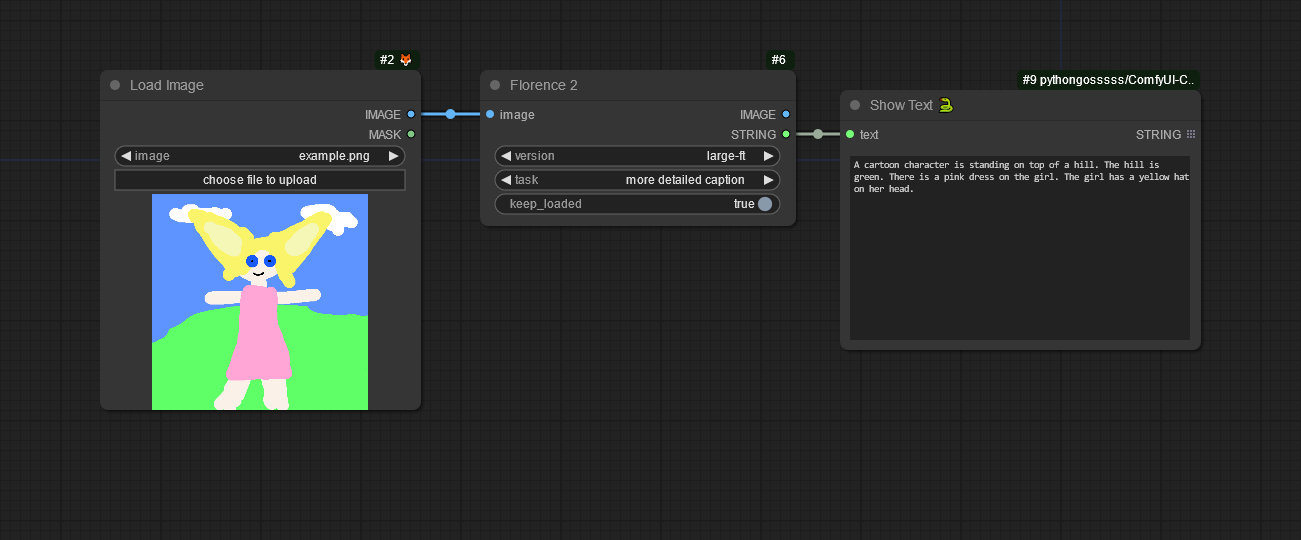
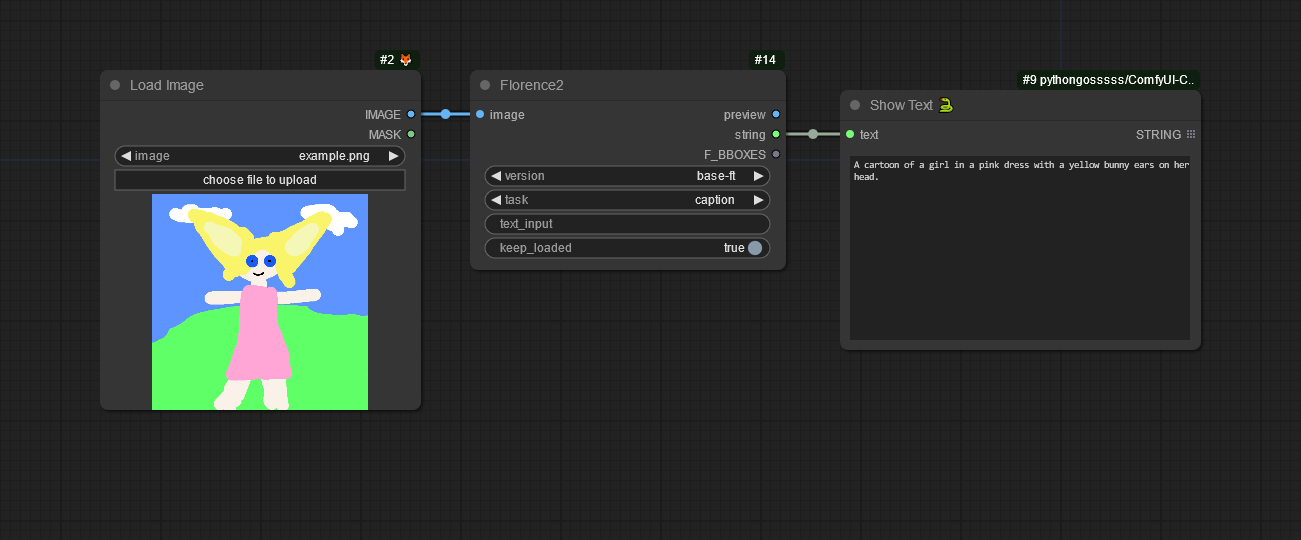
added functionality for more task modes

diff --git a/Florence.py b/Florence.py
@@ -1,13 +1,25 @@
 import os
+import io
+import copy
+import gc
 from unittest.mock import patch
+import random
+
+from PIL import Image, ImageDraw, ImageFont 
+import matplotlib.pyplot as plt
+import matplotlib.patches as patches
+
 import numpy as np
-from PIL import Image
 import torch
 from transformers import AutoProcessor, AutoModelForCausalLM
 from transformers.dynamic_module_utils import get_imports
 
+
+colormap = ['blue','orange','green','purple','brown','pink','gray','olive','cyan','red',
+            'lime','indigo','violet','aqua','magenta','coral','gold','tan','skyblue']
+
 def fixed_get_imports(filename: str | os.PathLike) -> list[str]:
-    """Work around for https://huggingface.co/microsoft/Florence-2-large-ft/discussions/4"""
+    """Workaround for FlashAttention"""
     if os.path.basename(filename) != "modeling_florence2.py":
         return get_imports(filename)
     imports = get_imports(filename)
@@ -28,11 +40,91 @@ def load_model(version, device):
     model = model.to(device)
     return (model, processor)
 
+def fig_to_pil(fig):
+    buf = io.BytesIO()
+    fig.savefig(buf, format='png', dpi=100, bbox_inches='tight', pad_inches=0)
+    buf.seek(0)
+    return Image.open(buf)
+
+def plot_bbox(image, data):
+    fig, ax = plt.subplots()
+    fig.set_size_inches(image.width / 100, image.height / 100)
+    ax.imshow(image)
+    for i, (bbox, label) in enumerate(zip(data['bboxes'], data['labels'])):
+        x1, y1, x2, y2 = bbox
+        rect = patches.Rectangle((x1, y1), x2-x1, y2-y1, linewidth=1, edgecolor='r', facecolor='none')
+        ax.add_patch(rect)
+        enum_label = f"{i}: {label}"
+        plt.text(x1, y1, enum_label, color='white', fontsize=8, bbox=dict(facecolor='red', alpha=0.5))
+    ax.axis('off')
+    return fig
+
+def draw_polygons(image, prediction, fill_mask=False):
+    output_image = copy.deepcopy(image)
+    draw = ImageDraw.Draw(output_image)
+    scale = 1
+    for polygons, label in zip(prediction['polygons'], prediction['labels']):
+        color = random.choice(colormap)
+        # fill_color = random.choice(colormap) if fill_mask else None
+        fill_color = color if fill_mask else None
+        for _polygon in polygons:
+            _polygon = np.array(_polygon).reshape(-1, 2)
+            if len(_polygon) < 3:
+                print('Invalid polygon:', _polygon)
+                continue
+            _polygon = (_polygon * scale).reshape(-1).tolist()
+            if fill_mask:
+                draw.polygon(_polygon, outline=color, fill=fill_color)
+            else:
+                draw.polygon(_polygon, outline=color)
+            draw.text((_polygon[0] + 8, _polygon[1] + 2), label, fill=color)
+    return output_image
+
+def convert_to_od_format(data):
+    od_results = {
+        'bboxes': data.get('bboxes', []),
+        'labels': data.get('bboxes_labels', [])
+    }
+    return od_results
+
+def draw_ocr_bboxes(image, prediction):
+    scale = 1
+    output_image = copy.deepcopy(image)
+    draw = ImageDraw.Draw(output_image)
+    bboxes, labels = prediction['quad_boxes'], prediction['labels']
+    for box, label in zip(bboxes, labels):
+        color = random.choice(colormap)
+        new_box = (np.array(box) * scale).tolist()
+        draw.polygon(new_box, width=3, outline=color)
+        draw.text((new_box[0]+8, new_box[1]+2),
+                  "{}".format(label),
+                  align="right",
+                  fill=color)
+    return output_image
+
+TASK_OPTIONS = [
+    "caption",
+    "detailed caption",
+    "more detailed caption",
+    "object detection",
+    "dense region caption",
+    "region proposal",
+    "caption to phrase grounding",
+    "referring expression segmentation",
+    "region to segmentation",
+    "open vocabulary detection",
+    "region to category",
+    "region to description",
+    "OCR",
+    "OCR with region"
+    ]
+
 class Florence2:
     def __init__(self):
         self.model = None
         self.processor = None
         self.version = None
+        self.device = "cuda" if torch.cuda.is_available() else "cpu"
     
     @classmethod
     def INPUT_TYPES(s):
@@ -40,61 +132,181 @@ class Florence2:
             "required": {
                 "image": ("IMAGE",),
                 "version": (["base-ft", "large-ft"],),
-                "task": (["caption", "detailed caption", "more detailed caption"],),
+                "task": (TASK_OPTIONS, {"default": TASK_OPTIONS[0]}),
+                "text_input": ("STRING", {}),
                 "keep_loaded": ("BOOLEAN", {"default": True,}),
             },
         }
-
-    RETURN_TYPES = ("IMAGE", "STRING")
-    # RETURN_NAMES = ("",)
+    
+    RETURN_TYPES = ("IMAGE", "STRING", "F_BBOXES",)
+    RETURN_NAMES = ("preview", "string", "F_BBOXES",)
     FUNCTION = "apply"
     CATEGORY = "Florence2"
-
-    def apply(self, image, version, task, keep_loaded):
+    
+    def apply(self, image, version, task, text_input, keep_loaded):
         img = 255. * image[0].cpu().numpy()
-        img = Image.fromarray(np.clip(img, 0, 255).astype(np.uint8))
+        img = Image.fromarray(np.clip(img, 0, 255).astype(np.uint8)) 
         
-        device = "cuda" if torch.cuda.is_available() else "cpu"
-        
-        if self.version == version:
-            model = self.model
-            processor = self.processor
-        else:
-            model, processor = load_model(version, device)
-        
-        task_prompt = "<CAPTION>"
-        if task == "detailed caption":
-            task_prompt = "<DETAILED_CAPTION>"
-        elif task == "more detailed caption":
-            task_prompt = "<MORE_DETAILED_CAPTION>"
-        
-        inputs = processor(text=task_prompt, images=img, return_tensors="pt")
-        generated_ids = model.generate(
-            input_ids=inputs["input_ids"].to(device),
-            pixel_values=inputs["pixel_values"].to(device),
-            max_new_tokens=1024,
-            num_beams=3
-            )
-        generated_text = processor.batch_decode(generated_ids, skip_special_tokens=False)[0]
-        parsed_answer = processor.post_process_generation(generated_text, task=task_prompt, image_size=(img.width, img.height))
-        
-        if keep_loaded:
-            self.model = model
-            self.processor = processor
+        if self.version != version:
+            self.model, self.processor = load_model(version, self.device)
             self.version = version
+        
+        results, output_image = self.process_image(img, task, text_input)
+        # bboxes, labels OR polygons, labels
+        if isinstance(results, dict):
+            results["width"] = img.width
+            results["height"] = img.height
+        
+        if output_image == None:
+            output_image = image[0].detach().clone().unsqueeze(0)
         else:
+            output_image = np.asarray(output_image).astype(np.float32) / 255
+            output_image = torch.from_numpy(output_image).unsqueeze(0)
+        
+        if not keep_loaded:
             self.model = None
             self.processor = None
             self.version = None
-            del model, processor
+            gc.collect()
+            if self.device == "cuda":
+                torch.cuda.empty_cache()
         
-        return (image[0].detach().clone().unsqueeze(0), parsed_answer[task_prompt])
+        return (output_image, str(results), results)
+    
+    def run_example(self, task_prompt, image, text_input=None):
+        if text_input is None:
+            prompt = task_prompt
+        else:
+            prompt = task_prompt + text_input
+        inputs = self.processor(text=prompt, images=image, return_tensors="pt").to(self.device)
+        generated_ids = self.model.generate(
+            input_ids=inputs["input_ids"],
+            pixel_values=inputs["pixel_values"],
+            max_new_tokens=1024,
+            early_stopping=False,
+            do_sample=False,
+            num_beams=3,
+        )
+        generated_text = self.processor.batch_decode(generated_ids, skip_special_tokens=False)[0]
+        parsed_answer = self.processor.post_process_generation(
+            generated_text,
+            task=task_prompt,
+            image_size=(image.width, image.height)
+        )
+        return parsed_answer
+    
+    def process_image(self, image, task_prompt, text_input=None):
+        if task_prompt == 'caption':
+            task_prompt = '<CAPTION>'
+            result = self.run_example(task_prompt, image)
+            return result[task_prompt], None
+        elif task_prompt == 'detailed caption':
+            task_prompt = '<DETAILED_CAPTION>'
+            result = self.run_example(task_prompt, image)
+            return result[task_prompt], None
+        elif task_prompt == 'more detailed caption':
+            task_prompt = '<MORE_DETAILED_CAPTION>'
+            result = self.run_example(task_prompt, image)
+            return result[task_prompt], None
+        elif task_prompt == 'object detection':
+            task_prompt = '<OD>'
+            results = self.run_example(task_prompt, image)
+            fig = plot_bbox(image, results['<OD>'])
+            return results[task_prompt], fig_to_pil(fig)
+        elif task_prompt == 'dense region caption':
+            task_prompt = '<DENSE_REGION_CAPTION>'
+            results = self.run_example(task_prompt, image)
+            fig = plot_bbox(image, results['<DENSE_REGION_CAPTION>'])
+            return results[task_prompt], fig_to_pil(fig)
+        elif task_prompt == 'region proposal':
+            task_prompt = '<REGION_PROPOSAL>'
+            results = self.run_example(task_prompt, image)
+            fig = plot_bbox(image, results['<REGION_PROPOSAL>'])
+            return results[task_prompt], fig_to_pil(fig)
+        elif task_prompt == 'caption to phrase grounding':
+            task_prompt = '<CAPTION_TO_PHRASE_GROUNDING>'
+            results = self.run_example(task_prompt, image, text_input)
+            fig = plot_bbox(image, results['<CAPTION_TO_PHRASE_GROUNDING>'])
+            return results[task_prompt], fig_to_pil(fig)
+        elif task_prompt == 'referring expression segmentation':
+            task_prompt = '<REFERRING_EXPRESSION_SEGMENTATION>'
+            results = self.run_example(task_prompt, image, text_input)
+            output_image = draw_polygons(image, results['<REFERRING_EXPRESSION_SEGMENTATION>'], fill_mask=True)
+            return results[task_prompt], output_image
+        elif task_prompt == 'region to segmentation':
+            task_prompt = '<REGION_TO_SEGMENTATION>'
+            results = self.run_example(task_prompt, image, text_input)
+            output_image = draw_polygons(image, results['<REGION_TO_SEGMENTATION>'], fill_mask=True)
+            return results[task_prompt], output_image
+        elif task_prompt == 'open vocabulary detection':
+            task_prompt = '<OPEN_VOCABULARY_DETECTION>'
+            results = self.run_example(task_prompt, image, text_input)
+            bbox_results = convert_to_od_format(results['<OPEN_VOCABULARY_DETECTION>'])
+            fig = plot_bbox(image, bbox_results)
+            return bbox_results, fig_to_pil(fig)
+        elif task_prompt == 'region to category':
+            task_prompt = '<REGION_TO_CATEGORY>'
+            results = self.run_example(task_prompt, image, text_input)
+            return results[task_prompt], None
+        elif task_prompt == 'region to description':
+            task_prompt = '<REGION_TO_DESCRIPTION>'
+            results = self.run_example(task_prompt, image, text_input)
+            return results[task_prompt], None
+        elif task_prompt == 'OCR':
+            task_prompt = '<OCR>'
+            result = self.run_example(task_prompt, image)
+            return result[task_prompt], None
+        elif task_prompt == 'OCR with region':
+            task_prompt = '<OCR_WITH_REGION>'
+            results = self.run_example(task_prompt, image)
+            output_image = draw_ocr_bboxes(image, results['<OCR_WITH_REGION>'])
+            output_results = {'bboxes': results[task_prompt].get('quad_boxes', []),
+                              'labels': results[task_prompt].get('labels', [])}
+            return output_results, output_image
+        else:
+            return "", None  # Return empty string and None for unknown task prompts
 
+class Florence2Postprocess:
+    @classmethod
+    def INPUT_TYPES(s):
+        return {
+            "required": {
+                "F_BBOXES": ("F_BBOXES",),
+                "index": ("INT", {"default": 0, "min": 0}),
+            },
+        }
+    
+    RETURN_TYPES = ("MASK", "STRING",)
+    RETURN_NAMES = ("mask", "label",)
+    FUNCTION = "apply"
+    CATEGORY = "Florence2"
+    
+    def apply(self, F_BBOXES, index):
+        if isinstance(F_BBOXES, str):
+            return (torch.zeros(1, 512, 512, dtype=torch.float32), F_BBOXES)
+        
+        width = F_BBOXES["width"]
+        height = F_BBOXES["height"]
+        mask = np.zeros((height, width), dtype=np.uint8)
+        
+        if "bboxes" in F_BBOXES:
+            bbox = F_BBOXES["bboxes"][index]
+            label = F_BBOXES["labels"][index]
+            x1, y1, x2, y2 = int(bbox[0]), int(bbox[1]), int(bbox[2]), int(bbox[3])
+            mask[y1:y2, x1:x2] = 1
+        else:
+            polygon = F_BBOXES["polygons"][index]
+            label = F_BBOXES["labels"][index]
+        
+        mask = torch.from_numpy(mask.astype(np.float32)).unsqueeze(0)
+        return (mask, label)
 
 NODE_CLASS_MAPPINGS = {
     "Florence2": Florence2,
+    "Florence2Postprocess": Florence2Postprocess,
     }
 
 NODE_DISPLAY_NAME_MAPPINGS = {
-    "Florence2": "Florence 2",
+    "Florence2": "Florence2",
+    "Florence2Postprocess": "Florence2 Postprocess",
     }
